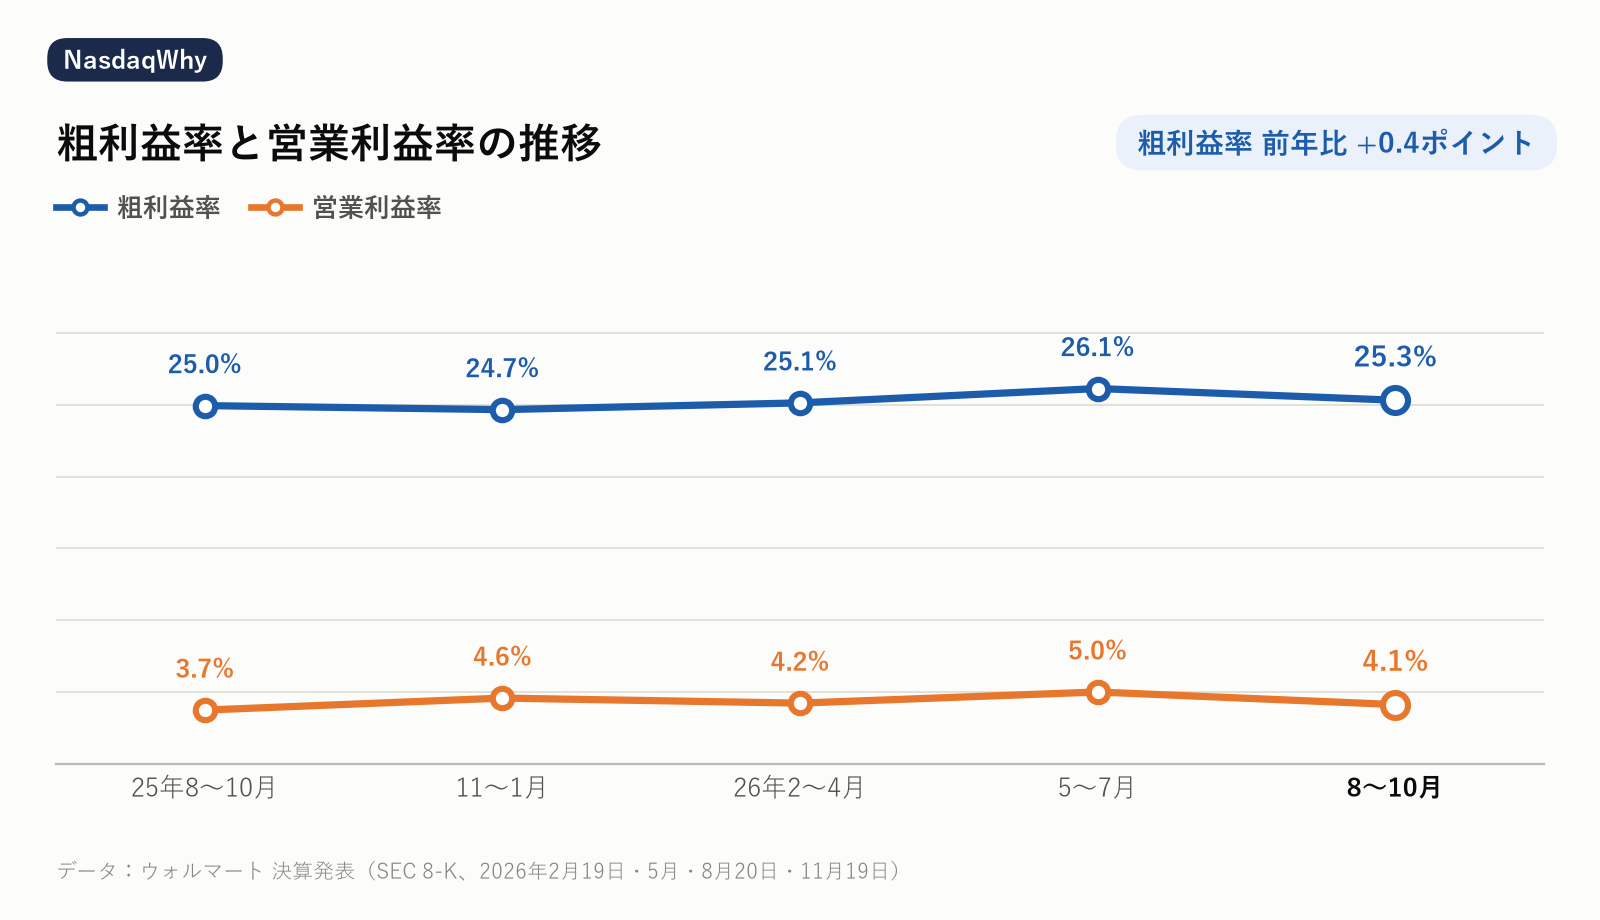
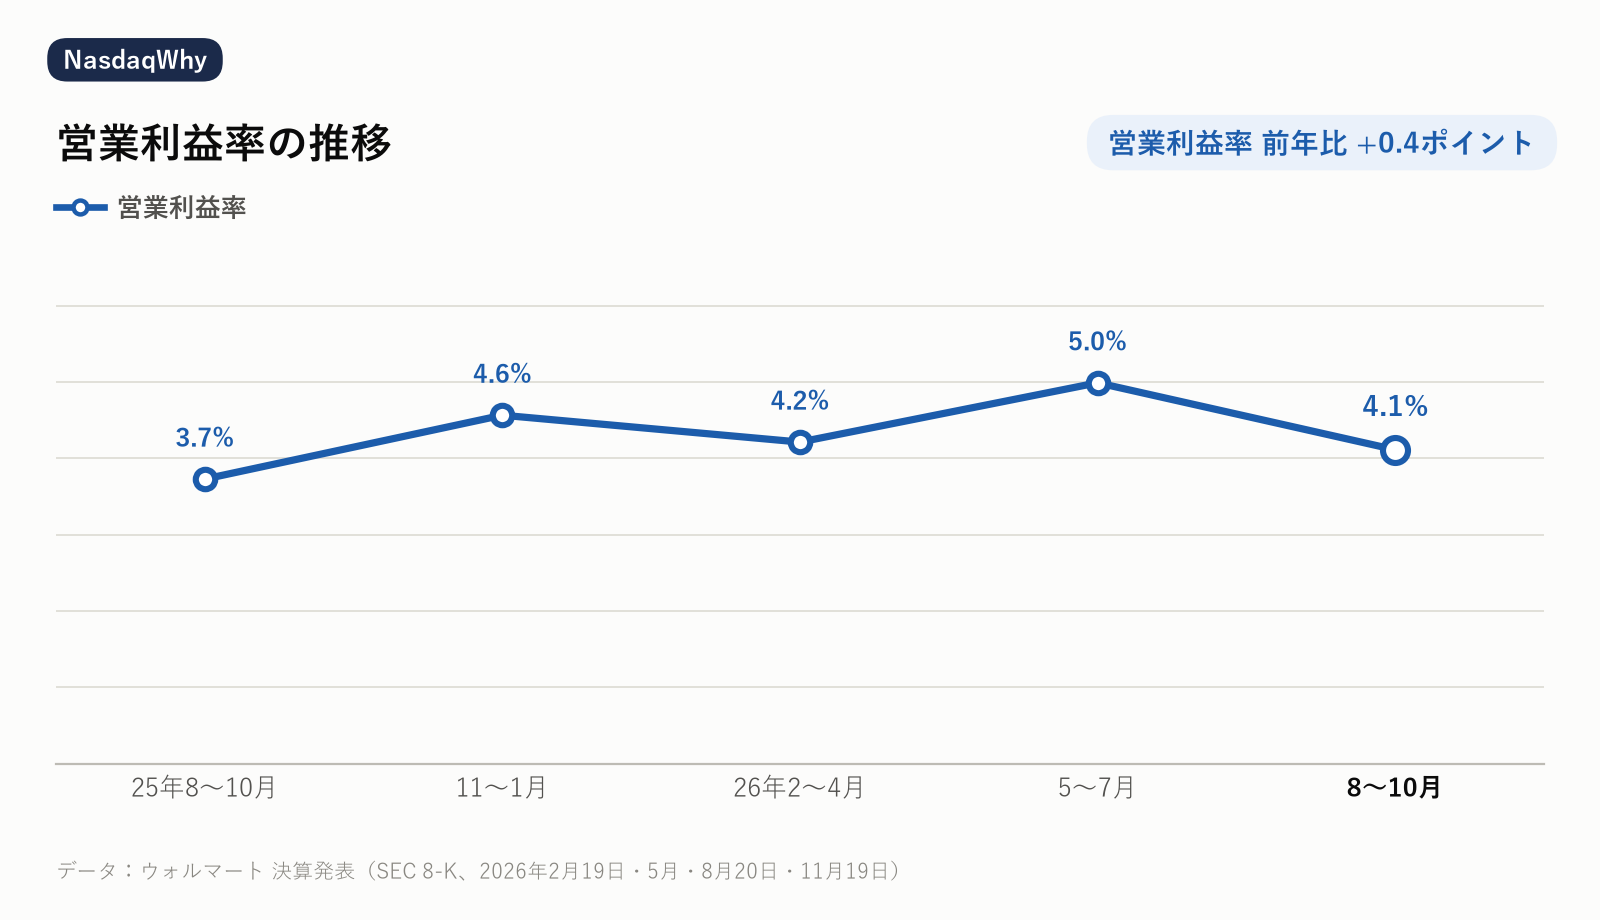
決算ページ WMT-FY27Q3 のグラフを作り直し

diff --git a/earnings/WMT-FY27Q3/index.html b/earnings/WMT-FY27Q3/index.html
@@ -31,10 +31,9 @@
 <h2>主な数字（2026年8〜10月期（2027年度第3四半期））</h2>
 <div class="table-scroll"><table><tr><th></th><th>今回</th><th>前年同期</th><th>前年比</th></tr><tr><th>売上高</th><td>1,888億ドル</td><td>1,795億ドル</td><td>+5.2%</td></tr><tr><th>営業利益</th><td>78億ドル</td><td>67億ドル</td><td>+16.0%</td></tr><tr><th>営業利益率</th><td>4.1%</td><td>3.7%</td><td></td></tr><tr><th>純利益</th><td>49億ドル</td><td>61億ドル</td><td>-19.5%</td></tr></table></div>
 <h2>8〜10月期の事業別の売上</h2><div class="table-scroll"><table class="tw"><tr><th>事業</th><th>売上</th><th>前年同期比</th></tr><tr><th>米国ウォルマート</th><td>1,250億ドル</td><td class='up'>+3.6%</td></tr><tr><th>　米国の既存店</th><td>燃料除く</td><td class='up'>+2.9%</td></tr><tr><th>　米国のネット通販</th><td>非公表</td><td class='up'>+23.0%</td></tr><tr><th>海外</th><td>359億ドル</td><td class='up'>+7.0%</td></tr><tr><th>サムズクラブ（米国）</th><td>259億ドル</td><td class='up'>+10.0%</td></tr><tr><th>広告（世界）</th><td>非公表</td><td class='up'>+25.0%</td></tr><tr><th>会員費（世界）</th><td>非公表</td><td class='up'>+17.0%</td></tr></table></div>
-<img src="revenue.png" alt="売上高の推移">
 <h2>事業別に見ると：伸びているのはデジタル</h2><p>伸びが大きいのは、ネット通販（サムズクラブ+30%、米国のウォルマート+23%）・広告（世界+25%）・会員費（世界+17%）。お店の売上（米国の既存店、燃料除く）は+2.9%。</p><p>海外は+7.0%（為替を除くと+3.3%）。インドのFlipkartの大型セールが11〜1月期にずれたため、海外の伸びが約5ポイント低くなった。その分、11〜1月期は約1ポイント押し上げられる見込み。</p><p>米国の店から届ける配達はネット通販の売上の4割を超え、その37%以上が3時間以内に届いている（会社の説明）。10/20には会員サービス「Walmart+」とサムズクラブの会員をまとめた120ドルのセットも始めた。</p><img src="画像02_事業別の伸び.png" alt="事業別の伸び">
 <h2>会社の見通し（2027年度）</h2>
-<div class="table-scroll"><table class="tw"><tr><th>売上（為替除く）</th><td>+4.9〜5.2%（前回+4〜5%）</td></tr><tr><th>営業利益（調整後）</th><td>+8.0〜8.6%（前回+7〜8.5%）</td></tr><tr><th>1株利益（調整後）</th><td>2.84〜2.89ドル（前回2.80〜2.87）</td></tr><tr><th>11〜1月期の売上</th><td>+4.5〜5.5%（為替除く）</td></tr></table></div>
+<div class="table-scroll"><table class="tw"><tr><th>売上（為替除く）</th><td>+4.9〜5.2%</td></tr><tr><th>営業利益（調整後）</th><td>+8.0〜8.6%</td></tr><tr><th>1株利益（調整後）</th><td>2.84〜2.89ドル</td></tr><tr><th>11〜1月期の売上</th><td>+4.5〜5.5%</td></tr></table></div>
 <ul><li>2027年度（2026年2月〜2027年1月）の見通しを引き上げた。売上（為替を除く）は+4.9〜5.2%（前回は+4.0〜5.0%）、調整後の1株利益は2.84〜2.89ドル（前回は2.80〜2.87ドル）。今年3回目の上方修正。</li><li>11〜1月期は、売上（為替を除く）+4.5〜5.5%、調整後の1株利益0.73〜0.78ドルの見通し（説明会での説明）。</li><li>最高財務責任者のジョン・デビッド・レイニー氏は、見通しは「今の売上の流れとシェアの拡大が11〜1月期も続く」前提だと説明した。2028年度の見通しは次の決算で出す。</li></ul>
 <h2>年間の見通しは今年3回目の上方修正</h2><p>調整後の1株利益の見通しは、2月の2.75〜2.85ドルから、8月に2.80〜2.87ドル、今回2.84〜2.89ドルへと引き上げられた。売上（為替を除く）の伸びの見通しも+3.5〜4.5%から+4.9〜5.2%に上がった。</p><p>ただし、年間の売上の見通しはアナリストの予想（約+5.5%）より低かった（報道）。</p><img src="画像03_見通しの上方修正.png" alt="年間の見通しの変化">
 <h2>もうけの力</h2>
@@ -51,7 +50,7 @@
 <h2>決算説明会で会社が話したこと</h2><p>【消費者】ジョン・ファーナーCEOは「安定して底堅い」と話した（4月と6月に一時弱い時期があった）。食品の値上がりは1〜2%程度。シェアは所得のどの層でも伸び、特に所得の高い家庭で大きく伸びた。</p><p>【費用と値段】燃料と輸送の費用は今年20億ドル以上増えた。最高財務責任者のジョン・デビッド・レイニー氏は、軽油の値段は「下がってきたが、大きな費用」と説明。関税の払い戻しは値下げに回した。</p><p>【AI】AIの買い物アシスタント「Sparky（スパーキー）」の利用は1年で+129%で、声や写真でも買い物ができるようになった。Sparky を使った買い物は金額が約4割大きい。お客が自分のAIエージェントをつなぐ仕組み（Agent Gateway）では、使える金額の上限を決めたり、いつでも止めたりできる。</p><p>【年末商戦】感謝祭の食事のセットは1人約3.5ドルと去年より約12%安い。七面鳥の販売数は約100万羽増える見込み。</p><p>出典：決算説明会の書き起こし（Investing.com）・AP・PYMNTS の報道。発言は英語からの要約。</p>
 <h2>NasdaqWhy の視点：データから読み取れる注目点</h2>
 <p class="lead">決算資料と各社の公式データを並べて読み取れることです。将来を予想するものではありません。</p>
-<ul><li>【なぜ営業利益は増えたのに、純利益は減ったか】純利益が減ったのは、本業ではなく「投資のもうけ」の差のため。1年前の8〜10月期は、持っている他社の株の値上がりで1株あたり0.20ドルのもうけがあった。今回は逆に0.03ドルの損になった。こうした一時的な分を除いた調整後の1株利益は0.65ドルで、前年の0.62ドルから+5%、市場の予想（0.64ドル）も少し上回った。</li><li>【なぜ営業利益の伸びは16%と7%の2つあるか】米国の会計基準どおりの営業利益は+16%。ただ、1年前は一時的な費用で営業利益が小さかった（会社の調整後では72.6億ドル）。会社の調整後で比べると+7.0%（為替を除くと+5.5%）で、会社が8月に示した+2〜4%は上回った。</li><li>【なぜ利益が伸びるか】ネット通販・広告・会員費という「デジタル」の部分が伸びている。世界のネット通販は+17%で売上の約24%になり、米国のネット通販は1件増えるごとの利益率が12%を超えた（会社の説明）。広告は世界で+25%、会員費は+17%。粗利益率は24.5%と0.28ポイント上がった。</li><li>【なぜ米国の既存店の伸びは2.9%に鈍ったか】米国の既存店（燃料除く）は+2.9%で、1年前の+4.5%より低い。お客の数は+1.5%、1回の買い物の金額は+1.4%。米国の公的な医療保険（メディケア）で薬の値段に上限がついた影響で、薬の売上が減ったことが重い。会社は11〜1月期も約1.25ポイントの押し下げを見込んでいる。</li><li>【なぜ値下げを続けられるか】今年は燃料と輸送の費用が20億ドル以上増えた。それでも会社は、関税の払い戻しを値下げに回したと説明。期間限定の値下げ（ロールバック）は約7,700品目と、ふだん（5,000〜5,500）より多い。感謝祭の食事のセットは1人約3.5ドルと、去年より約12%安くした。</li><li>【決算説明会から】ジョン・ファーナーCEOは、消費者は「安定して底堅い」と話した。シェア（お客の取り込み）は所得のどの層でも伸び、特に所得の高い家庭（年収10万ドル超）で大きく伸びた（AP の報道）。AIの買い物アシスタント「Sparky（スパーキー）」の利用は1年で+129%、Sparky を使った買い物は金額が約4割大きい。お客が自分のAIエージェントをつないで買い物できる仕組み（Agent Gateway）も始めた。</li><li>【同業と比べると】同じ8〜10月期で、売上の伸びはターゲット（+7.1%）が上、ホームデポ（+4.9%）はほぼ同じ。営業利益率はウォルマートが4.1%で、ターゲット（6.2%、関税の払い戻しを除くと約5.1%）やホームデポ（12.6%）より低い。食品・日用品が中心で、安く売って量で稼ぐ形のため。アマゾン（7〜9月、+12%）は伸びが大きいが、利益の多くはクラウドで稼いでいる。</li><li>【市場の予想との差】売上（1,888億ドル）と調整後の1株利益（0.65ドル）は予想を上回った（FactSet）。一方、年間の売上の見通し（+4.9〜5.2%）は、アナリストの予想（約+5.5%）より低く、1株利益の見通しの上限（2.89ドル）は予想と同じ水準だった（報道）。</li></ul>
+<ul><li>【なぜ営業利益は増えたのに、純利益は減ったか】純利益が減ったのは、本業ではなく「投資のもうけ」の差のため。1年前の8〜10月期は、持っている他社の株の値上がりで1株あたり0.20ドルのもうけがあった。今回は逆に0.03ドルの損になった。こうした一時的な分を除いた調整後の1株利益は0.65ドルで、前年の0.62ドルから+5%、市場の予想（0.64ドル）も少し上回った。</li><li>【株価の反応】決算を発表した日（11月19日。取引開始前の発表）の終値は126.04ドルで、前の日の終値（127.36ドル）から1.0%下がった。</li><li>【なぜ営業利益の伸びは16%と7%の2つあるか】米国の会計基準どおりの営業利益は+16%。ただ、1年前は一時的な費用で営業利益が小さかった（会社の調整後では72.6億ドル）。会社の調整後で比べると+7.0%（為替を除くと+5.5%）で、会社が8月に示した+2〜4%は上回った。</li><li>【なぜ利益が伸びるか】ネット通販・広告・会員費という「デジタル」の部分が伸びている。世界のネット通販は+17%で売上の約24%になり、米国のネット通販は1件増えるごとの利益率が12%を超えた（会社の説明）。広告は世界で+25%、会員費は+17%。粗利益率は24.5%と0.28ポイント上がった。</li><li>【なぜ米国の既存店の伸びは2.9%に鈍ったか】米国の既存店（燃料除く）は+2.9%で、1年前の+4.5%より低い。お客の数は+1.5%、1回の買い物の金額は+1.4%。米国の公的な医療保険（メディケア）で薬の値段に上限がついた影響で、薬の売上が減ったことが重い。会社は11〜1月期も約1.25ポイントの押し下げを見込んでいる。</li><li>【なぜ値下げを続けられるか】今年は燃料と輸送の費用が20億ドル以上増えた。それでも会社は、関税の払い戻しを値下げに回したと説明。期間限定の値下げ（ロールバック）は約7,700品目と、ふだん（5,000〜5,500）より多い。感謝祭の食事のセットは1人約3.5ドルと、去年より約12%安くした。</li><li>【決算説明会から】ジョン・ファーナーCEOは、消費者は「安定して底堅い」と話した。シェア（お客の取り込み）は所得のどの層でも伸び、特に所得の高い家庭（年収10万ドル超）で大きく伸びた（AP の報道）。AIの買い物アシスタント「Sparky（スパーキー）」の利用は1年で+129%、Sparky を使った買い物は金額が約4割大きい。お客が自分のAIエージェントをつないで買い物できる仕組み（Agent Gateway）も始めた。</li><li>【同業と比べると】同じ8〜10月期で、売上の伸びはターゲット（+7.1%）が上、ホームデポ（+4.9%）はほぼ同じ。営業利益率はウォルマートが4.1%で、ターゲット（6.2%、関税の払い戻しを除くと約5.1%）やホームデポ（12.6%）より低い。食品・日用品が中心で、安く売って量で稼ぐ形のため。アマゾン（7〜9月、+12%）は伸びが大きいが、利益の多くはクラウドで稼いでいる。</li><li>【市場の予想との差】売上（1,888億ドル）と調整後の1株利益（0.65ドル）は予想を上回った（FactSet）。一方、年間の売上の見通し（+4.9〜5.2%）は、アナリストの予想（約+5.5%）より低く、1株利益の見通しの上限（2.89ドル）は予想と同じ水準だった（報道）。</li></ul>
 <h2>次に確認したい決算・予定</h2>
 <ul><li>コストコの9〜11月期の決算（12/10）：会員制の大型店の伸びと比べる。</li><li>年末商戦（11/27のブラックフライデーから）：ネット通販と値下げの効果。</li><li>ウォルマートの次の決算（2027年2月中旬の見込み）：2028年度の見通し、米国の既存店の伸び、広告とネット通販の利益。</li></ul>
 <p class="lead">関連リンク</p><ul><li><a href="https://stock.walmart.com/" target="_blank" rel="noopener">ウォルマートの投資家向けページ（英語）</a></li><li><a href="https://www.sec.gov/Archives/edgar/data/0000104169/000010416926000168/earningsreleasefy27q3.htm" target="_blank" rel="noopener">決算発表（SEC 8-K・英語）</a></li><li><a href="https://ph.investing.com/news/stock-market-news/earnings-call-transcript-walmart-beats-q3-2026-estimates-but-shares-fall-premarket-93CH-2711064" target="_blank" rel="noopener">決算説明会の書き起こし（Investing.com・英語）</a></li></ul>
